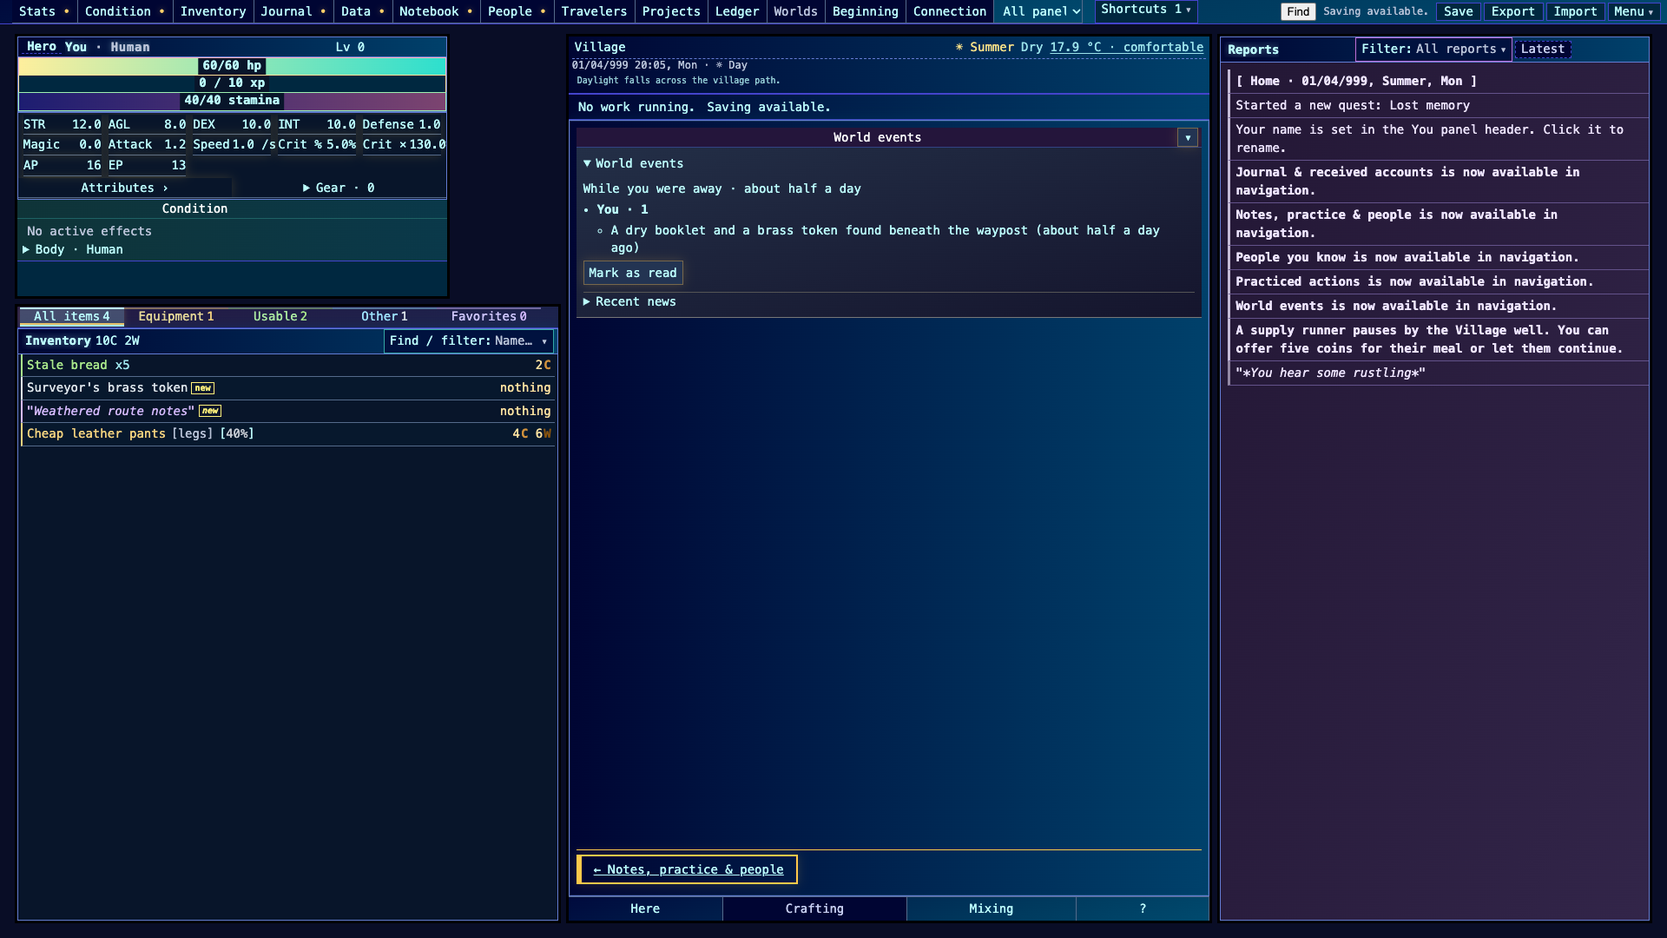
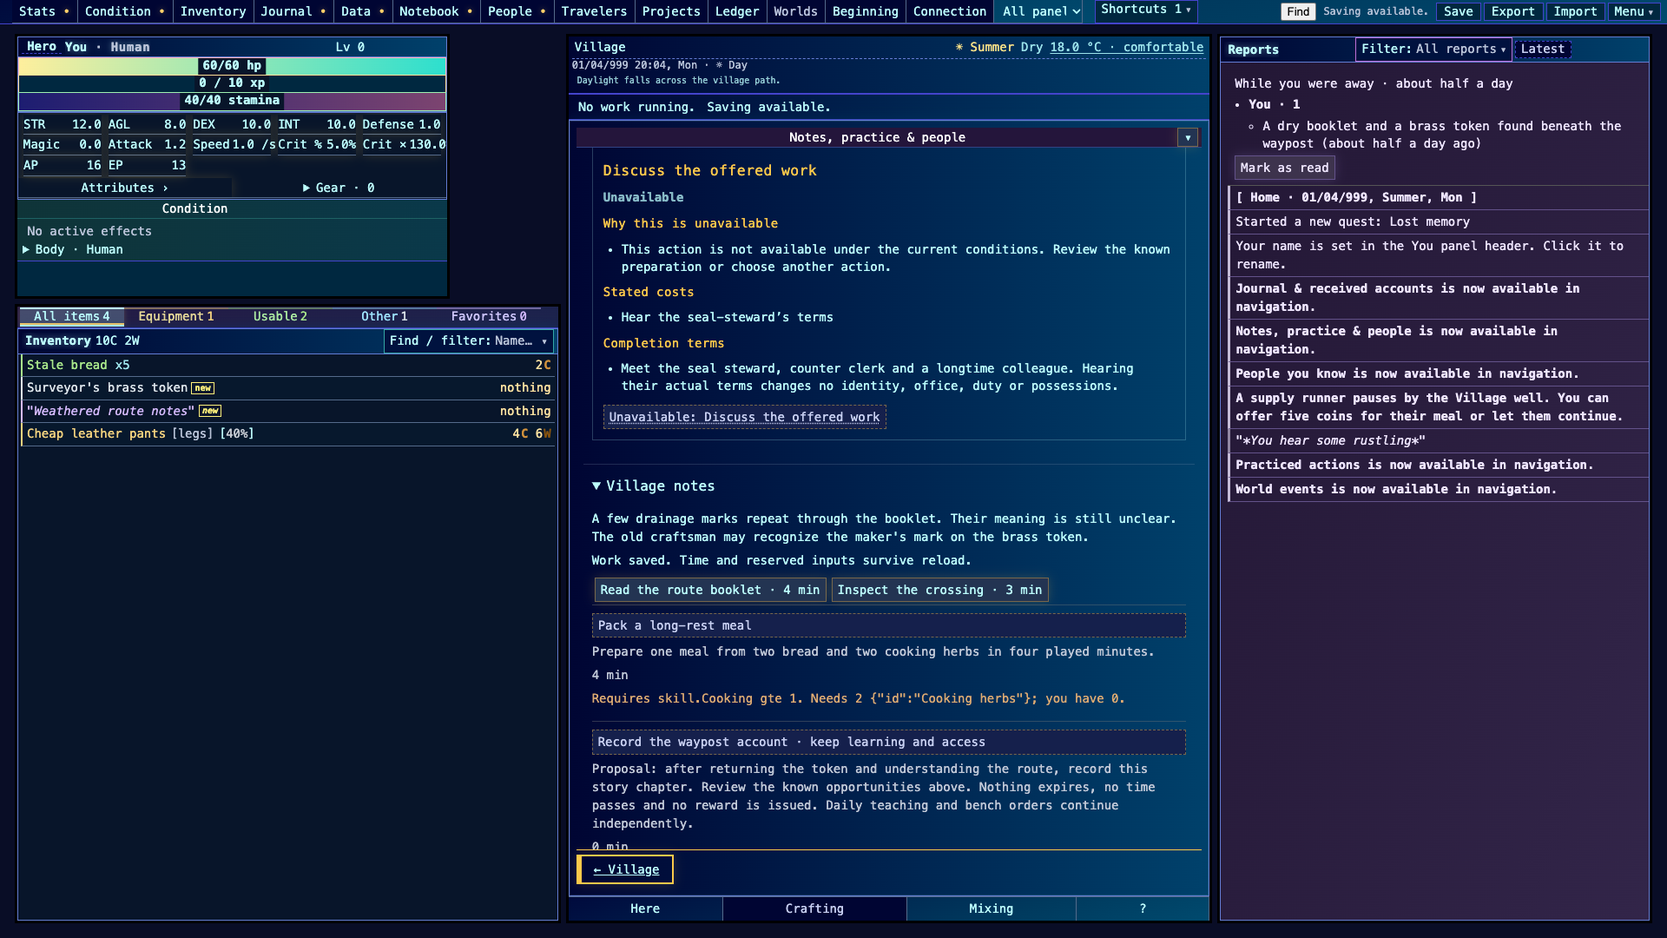
Time and chronicle round 2: digest pinned in Reports, xN folding for every report kind, person links
- TC17: the While you were away row moves from World events (closed by default and on reload)
  to the top of Reports, bounded to 40% of the column; the stream is unchanged.
- TC18: a non-combat line repeating the newest line folds into its xN with occurrence times,
  reusing combat_log's helper and CSS; day headers never fold; the detailed setting turns it off.
- TC20: person rows open People.
- Round 2 section: six reference games, fresh-player test, density, pop-out, cheat view,
  style, unconventional option, gaps, form per part, later volumes, flair, Reports shell proposals.

Checks: 19/19 focused tests; headless 1920x1080 fresh-life route PASS (bundle 2f5dfae1b4f1);
check:arch and check:rules PASS. TC18 and TC20 not yet exercised in the browser.
Agent-verified, not human-reviewed.

(cherry picked from commit cccf83dfedf10521eb94ead09cdb81f35c50f65b)

diff --git a/src/display.js b/src/display.js
@@ -13,6 +13,7 @@ import {GRADED_IDS} from './harvest.js';
 import {deferSimulationRender} from './simulation_render.js';
 import {knownBestiarySources, knownLootValue} from './fork_discovery_views.js';
 import {vendorState, conditionText} from './ui_polish.js';
+import {reportRepeatKey} from './report_repeats.js';
 import {combatLogKey, renderCombatLine, addCombatOccurrence, occurrenceLabel, hostileSlot, hostileSubject} from './combat_log.js';
 import {equipmentDurability} from './absorb_e2/durability.js';
 import {denominationsKnown} from './reveal_chain.js';
@@ -993,6 +994,22 @@ export function setNativeLogBufferReader(reader) {
 
     message_to_add = message_to_add.replaceAll("%HeroName%", character.name).replaceAll("\n","<br>");
     //message_to_add = message_to_add.replaceAll("%HeroName%", character.name).replaceAll("<br>","\n");
+    // Non-combat repeat of the newest visible line folds into its ×N (report_repeats.js).
+    const repeat_key=getDisplaySetting('combatRepeatMode')==='detailed'?null:reportRepeatKey(message_type,message_to_add,details);
+    let last_line=repeat_key&&message_log?.lastElementChild;
+    while(last_line&&!last_line.classList.contains('message_common'))last_line=last_line.previousElementSibling;
+    if(last_line&&last_line.dataset.reportRepeatKey===repeat_key){
+        const batch=deferSimulationRender(finish_batched_message_log,finish_batched_message_log);
+        const following=batch&&batched_log_following!==undefined?batched_log_following:getDisplaySetting("logFollow")==="always"||is_message_log_near_bottom();
+        if(batch)batched_log_following=following;
+        addCombatOccurrence(last_line,combat_occurrence_time());
+        const shown=document.getElementById([...last_line.classList].find(c=>/^message_(?:events|loot|unlocks|background|crafting|combat)$/.test(c))?.replace("_","_show_"));
+        if(shown?.classList.contains('active_selection_button')){
+            if(following){if(batch)batched_log_scroll_requested=true;else message_log.scrollTop=message_log.scrollHeight;}
+            else{message_log_unread_count+=1;show_message_log_unread();}
+        }
+        return;
+    }
 
     let message = document.createElement("div");
     message.classList.add("message_common");
@@ -1191,6 +1208,7 @@ export function setNativeLogBufferReader(reader) {
     insert_HTML(message, "<div class='message_border'> </>");
 
     message_log.appendChild(message);
+    if(repeat_key){message.dataset.reportRepeatKey=repeat_key;addCombatOccurrence(message,combat_occurrence_time());}
 
     const button_id = group_to_add.replace("_","_show_"); //not the best way but likelihood of the ids being changed is quite low
     if(document.getElementById(button_id).classList.contains("active_selection_button")) {

diff --git a/src/event_feed_ui.js b/src/event_feed_ui.js
@@ -4,6 +4,7 @@ import {reportAttention,reportProjection} from "./host.js";
 import {domainRegistry} from "./domain_registry.js";
 import {returnDigest} from "./return_digest.js";
 import {createReturnDigestRow} from "./return_digest_ui.js";
+import {openWorkspaceModule} from "./workspace_layout.js";
 
 const node = (tag, text = "") => {const n = document.createElement(tag); n.textContent = text; return n;};
 export function createEventFeed({registry, read, open}) {
@@ -12,8 +13,11 @@ export function createEventFeed({registry, read, open}) {
     const summary = node("summary", "World events"), leads = node("div"), past = node("details");
     const pastSummary = node("summary", "Recent news"), history = node("ol");
     past.append(pastSummary,history);
-    const digestRow=createReturnDigestRow({markRead:()=>{domainRegistry.command('returnDigest','markRead')();render();}});
-    panel.append(summary,digestRow.node,leads,past);
+    // RPT6 home: the top of Reports, which stays on screen; the stream below keeps the raw lines.
+    const digestRow=createReturnDigestRow({markRead:()=>{domainRegistry.command('returnDigest','markRead')();render();},openPerson:()=>openWorkspaceModule('known-people')});
+    const reports=document.getElementById('message_log_div');
+    if(reports)reports.insertBefore(digestRow.node,document.getElementById('message_box_div'));
+    panel.append(summary,leads,past);
     const lifePanel=node('details'),heardPanel=node('details'),lifeHistory=node('ol'),heardHistory=node('ol');
     lifeHistory.style.maxHeight='16rem';lifeHistory.style.overflowY='auto';
     lifePanel.id='life_event_view'; heardPanel.id='heard_event_view';
@@ -23,7 +27,7 @@ export function createEventFeed({registry, read, open}) {
         const snapshot = read(), {state,context} = snapshot, feed = eventFeed(state,registry,context.facts,snapshot.lifeRecord);
         const marker=domainRegistry.project('returnDigest'),digest=marker?returnDigest(state,registry,{facts:context.facts,lifeRecord:snapshot.lifeRecord,seenAt:marker.seenAt,feed}):null;
         digestRow.update(digest,{writable:marker?.writable!==false});
-        panel.hidden = !feed.leads.length && !feed.news.length && !feed.life.length && !feed.heard.length && !digest?.visible;
+        panel.hidden = !feed.leads.length && !feed.news.length && !feed.life.length && !feed.heard.length;
         const count = feed.leads.filter(e => e.available).length;
         reportAttention(count, feed.leads.find(e => e.available)?.label || "");
         reportProjection("events", () => ({leads: feed.leads.map(e => ({label: e.label, detail: e.detail, available: e.available})), news: feed.news.map(m => m.text), ...(digest?.visible ? {away: digest.text} : {})}));

diff --git a/src/return_digest_ui.js b/src/return_digest_ui.js
@@ -1,8 +1,8 @@
-// "While you were away" row (RPT6, LTU3). Home: the World events panel, above its leads; the raw
-// lines stay in Recent news, Life and Reports. Plain DOM lists, so the row is its own text form.
+// "While you were away" row (RPT6, LTU3). Home: pinned at the top of Reports, above the stream that
+// keeps the raw lines. Plain DOM lists, so the row is its own text form.
 const node = (doc, tag, text = '', cls = '') => {const n = doc.createElement(tag); if (text) n.textContent = text; if (cls) n.className = cls; return n;};
 
-export function createReturnDigestRow({doc = document, markRead}) {
+export function createReturnDigestRow({doc = document, markRead, openPerson = null}) {
     const root = node(doc, 'section', '', 'return-digest');
     root.id = 'return_digest'; root.setAttribute('aria-label', 'While you were away'); root.hidden = true;
     const heading = node(doc, 'strong'), groups = node(doc, 'ul', '', 'return-digest-groups');
@@ -27,7 +27,9 @@ export function createReturnDigestRow({doc = document, markRead}) {
             const item = node(doc, 'li'); item.dataset.digestGroup = g.id;
             const lines = node(doc, 'ul');
             lines.append(...g.lines.map(l => node(doc, 'li', `${l.text} (${l.when})`)));
-            item.append(node(doc, 'span', `${g.label} · ${g.lines.length}`, 'return-digest-who'), lines);
+            const who = node(doc, openPerson && g.kind === 'person' ? 'button' : 'span', `${g.label} · ${g.lines.length}`, 'return-digest-who');
+            if (who.tagName === 'BUTTON') {who.type = 'button'; who.title = `Open People: ${g.label}`; who.addEventListener('click', () => openPerson(g.personId));}
+            item.append(who, lines);
             return item;
         }));
     }};

diff --git a/tests/report_repeats.test.js b/tests/report_repeats.test.js
@@ -1,0 +1,23 @@
+import test from 'node:test';
+import assert from 'node:assert/strict';
+import {reportRepeatKey} from '../src/report_repeats.js';
+
+test('same type and text give the same key; a different type or text differs', () => {
+    const key = reportRepeatKey('message_events', 'You rest.');
+    assert.ok(key);
+    assert.equal(reportRepeatKey('message_events', 'You rest.'), key);
+    assert.notEqual(reportRepeatKey('skill_raised', 'You rest.'), key);
+    assert.notEqual(reportRepeatKey('message_events', 'You rest again.'), key);
+});
+
+test('combat kinds, combat details and calendar lines never fold here', () => {
+    assert.equal(reportRepeatKey('hero_attacked', 'x'), null);
+    assert.equal(reportRepeatKey('enemy_defeated', 'x'), null);
+    assert.equal(reportRepeatKey('other', 'x', {combat: {}}), null);
+    assert.equal(reportRepeatKey('other', 'Day 2', {calendarDate: '2'}), null);
+});
+
+test('empty or missing text has no key', () => {
+    assert.equal(reportRepeatKey('other', ''), null);
+    assert.equal(reportRepeatKey('other', undefined), null);
+});

diff --git a/style.css b/style.css
@@ -2958,6 +2958,9 @@ i {
 	#world_event_feed button:disabled { cursor: default; }
 	#world_event_feed ol { margin: var(--ui-space-3) 0; padding-left: 20px; }
 	#world_event_feed li { margin-bottom: var(--ui-space-3); }
+	#return_digest { flex: none; max-height: 40%; overflow-y: auto; box-sizing: border-box; padding: var(--ui-space-3) var(--ui-space-4); border-bottom: 1px solid var(--ui-swatch-076); }
+	#return_digest[hidden] { display: none; }
+	#return_digest button.return-digest-who { font: inherit; font-weight: bold; padding: 0; background: none; border: 0; color: inherit; text-decoration: underline; cursor: pointer; }
 	#return_digest ul { margin: var(--ui-space-2) 0; padding-left: var(--ui-space-6); }
 	#return_digest li { margin-bottom: var(--ui-space-1); }
 	#return_digest .return-digest-who { font-weight: bold; }

diff --git a/src/report_repeats.js b/src/report_repeats.js
@@ -1,0 +1,8 @@
+// Reports log: a non-combat line that repeats the newest line folds into "×N".
+// Returns a stable key from message type and final text, or null when the line never folds.
+// Combat kinds fold through combat_log.js; calendar day headers always stand alone.
+export function reportRepeatKey(type, text, details = {}) {
+    if (typeof type !== 'string' || typeof text !== 'string' || !text) return null;
+    if (/^(?:hero|enemy)_/.test(type) || details.combat || details.calendarDate) return null;
+    return `${type}\u0000${text}`;
+}

diff --git a/docs/representations/TIME_AND_CHRONICLE.md b/docs/representations/TIME_AND_CHRONICLE.md
@@ -170,9 +170,218 @@ save's own clock; future marker clamps; Export carries it). No engine schema bum
   under TC11, but it means the first digest needs a step like the waypost.
 - `eventFeed` caps Recent news at eight lines, so a very long absence shows the
   newest eight non-person lines; people's memories are not capped.
-- The World events module starts closed and the workspace does not reopen it
-  after reload; the row is still unread and shows when the panel is opened.
-- Person rows do not link to their People entry yet (TC10 asks for it).
+- (Round 2) The digest moved to the top of Reports, so the World events module's
+  closed-by-default state no longer hides it.
+- (Round 2) Person rows now open People (TC20).
 
 **Next slice:** TC12 upcoming strip in the time chip region from `eventFeed`
 leads and the pending job list, then the person-row links.
+
+## Round 2 (2026-10-30): references, fresh eyes, Reports shell
+
+Brief: [round 2](../gm/dispatch/ui-refactor-wave-2026-10-29/ROUND2_BRIEF.md) items
+1-21. This session owns the Reports panel's overall look (item 14). Everything
+here, round 1 included, is a draft and the current best, open to refactor or
+replacement with a reason (AD45). Codes TC17 onward.
+
+### How other games do it (item 1)
+
+Claims are from general knowledge of these games (play and public docs), not a
+fresh study session; "inferred" marks my reading of why it works.
+
+| Game | What the player sees | Makes easy | Costs | Idea taken |
+|---|---|---|---|---|
+| Persona 5 | A day page: date, weather, time slot (after school, evening), the calendar flips on a new day; deadlines as "N days left". | Planning by slot; deadline pressure. | Rigid slots; little room for idle time. | **Time as named slots and countdown phrases**, not clocks (TC9, TC12). |
+| Stardew Valley | Season calendar with birthdays and festivals; the day-end summary lists what you earned. | Recurring dates at a glance; a ritual end-of-day receipt. | The summary is money-only. | **A day-end receipt grouped by kind**, which the digest generalizes to people (TC3). |
+| Majora's Mask | A three-day clock; the Bombers' notebook tracks who is where when and what you learned about them. | Loop worlds: who matters at which hour, and what carries over. | Heavy to author per person. | **Per-person schedule rows that fill as you learn them** (TC5, TC14). |
+| Outer Wilds | A loop with a ship log: rumor mode (links between leads) and map mode; the reset keeps only knowledge. | "What did I learn this loop" without a quest list. | Needs knowledge-only progress. | **The log is knowledge, not tasks**: the digest and loop view show what you now know (TC11, TC14). |
+| Dwarf Fortress legends | Years of events per figure, site and entity, browsable after the fact. | Emergent history readable as a chronicle. | Raw and dense; little narrative shape. | **Every line belongs to a subject**: group by person and place, link to the subject (TC10, TC20). |
+| Idle games (Melvor Idle, Cookie Clicker, Antimatter Dimensions) | An offline-progress popup on return: time away, what you gained, sometimes per skill. | The return moment is satisfying and short. | Usually a modal that blocks; numbers without stories. | **One summary on return, not a modal**, with the time away as a phrase (TC8, TC17). |
+
+Own references first (UR12, UR49): Proto23's message log is the baseline for
+the Reports column (compact subject-first lines, kind tags); YAIR upstream logs
+by kind with filter buttons. Both are kept; nothing here removes a filter.
+
+### Fresh-player test (item 2)
+
+Opening a fresh life, then twelve hours later, as a first-time player:
+
+- Before this round the digest lived in the World events module, which starts
+  closed and closes again on reload. A fresh player would never see it.
+  **Fixed (TC17):** it is pinned at the top of Reports, which is on screen in the
+  default layout.
+- "Mark as read" is clear. "About half a day ago" is clear. "You · 1" is clear
+  once lines show under it.
+- Terms needing knowledge: none new. The person name is a link only when that
+  person is in People (TC20).
+- Numbers without meaning: none; the only number is a count beside a name.
+
+### Space, split and density (item 3)
+
+- **Reports (right column)**: the glance. The digest takes at most 40% of the
+  column and scrolls inside itself, so the stream keeps its room. Density: one
+  heading line, one line per person, the lines indented under them (UR42: looked
+  at on every return).
+- **World events (center)**: leads and recent news stay there. Split rule: the
+  digest answers "what changed while I was gone", World events answers "what can
+  I act on"; one question per view.
+- **Upcoming strip (TC12, next slice)**: one line in the time chip region; the
+  wide week calendar (TC13) only in a center mode or pop-out.
+
+### Bars and small signals (item 4)
+
+The digest needs no bar. The upcoming strip (TC12) will carry a small "time
+left" chip per item in words ("about two hours"), with a thin track only when
+the job has a known total (reuses `meter_bar.js` via `work_status_view.js`).
+
+### Pop-outs and the desktop app (item 5)
+
+- **Calendar pop-out (LATER):** the week calendar (TC13) is the one view in this
+  feature that earns a second screen; it draws into its given node (MDL13) so
+  `desktop/popout_host.cjs` can host it, with the browser fallback in-page.
+- **Notification (ACCOUNT FOR NOW):** when the app regains focus and the digest
+  is visible, the desktop presence can badge the Dock with the line count. No
+  sound; the row itself is the content.
+
+### Cheats and insight views (item 6)
+
+A "while you were away" cheat (an all-seeing servant, a status window's log)
+adds a **Revealed** group under the digest: lines the player did not witness,
+each marked with the cheat's name as source, never mixed into person groups.
+It reads from the cheat's declared source, never from the simulation log, and
+sealed outcomes appear by ID and status only (UR80). The developer inspector
+stays separate.
+
+### Visual style (item 7)
+
+Default: plain indented lists in the theme's body type, which work in Luminous
+and Neutral, at 14 px and 21 px, and with effects off (no effect is used). The
+gallery shows the alternative **radial "who it came from" figure**
+(`time-return-digest`). It reads worse for the digest itself: a list scans
+faster than a star for five or fewer groups, and the figure only earns its room
+for a long absence with many people. Kept as the gallery form and a possible
+"story so far" view (TC4).
+
+### Use what we have (item 8)
+
+`eventFeed` (news, heard, leads), `knownPeopleView` (per-person memories),
+`domain_registry` (save slice), `combat_log.addCombatOccurrence` (×N folding,
+now reused for all kinds), `figure.js` (gallery form), the Reports filters and
+`notice-panel-link`. New code: one adapter, one row, one domain, one key helper.
+
+### Unconventional option (item 9)
+
+**The letter (TC6)**: the digest written as a note from whoever was nearest,
+in the world's voice, with the plain list folded under it. Needs a plausible
+writer per world and the later local-AI drafting pass. Worth a later slice in
+book worlds with servants or roommates; not before prose quality improves.
+
+### Audit gaps (item 10)
+
+- **Lead's run (LTU3):** the digest groups by person, which is LTU3's shape.
+  The LOTM be-seat run needs its cast memories to reach `knownPeopleView`;
+  until then a Tingen return shows You and Around only. ACCOUNT FOR NOW.
+- **Other seats:** the adapter reads only player-knowledge owners; a thin life
+  with few known people gets a short digest, which is correct.
+- **Empty and error:** no row when nothing is new; unwritable save says why.
+- **Performance:** the digest reuses the feed already built per render; it adds
+  one `knownPeopleView` call per World events render. Measure if render cost
+  shows up.
+- **Accessibility:** the row is a labelled section with real buttons; person
+  names are buttons with titles; no motion.
+
+### Prior implementations and abstraction (item 11)
+
+The abstraction underneath is a **note** (coverage plan K2): a dated summary of
+a stretch, grouped by subject, each line pointing back to its source. The
+thematic UI owner's "small contextual bars" section already asks for this kind
+of return summary; the digest is its first note. The next note (a journey's
+arrival summary, a loop reset) reuses `groupDigest` with different sources.
+
+### Flourish (item 13)
+
+LATER: a one-time soft settle when the digest first appears (the existing
+settled-text effect), off under effects off and reduced. No particles: a return
+summary is not an event.
+
+### Reports in this feature and the Reports shell (item 14)
+
+ACT NOW, done in this round:
+
+- **TC17. Digest pinned at the top of Reports** (RPT6). Moved from World events;
+  the stream below is untouched. Log line not needed: the row was never visible
+  to a player in its old home.
+- **TC18. Repeated lines fold into ×N** for every kind, not only combat. A line
+  that repeats the newest visible line (same kind, same text) adds to its ×N
+  with the time of each occurrence; calendar day headers never fold; the
+  existing "detailed" repeat setting turns it off. Reuses the combat helper and
+  its CSS. (`src/report_repeats.js`, three lines' worth of hook in `display.js`.)
+- **TC20. Person rows link to People** (RPT9: the log forgets, the person view
+  remembers).
+
+ACCOUNT FOR NOW (proposals for the shell; other sessions propose their lines):
+
+- **TC19. A glyph before the kind label.** The r3 shell already prints the kind
+  (Event, Discovery, Loot, Crafting, Combat, World) above each line. A small
+  glyph per kind (◆ event, ✦ discovery, ◇ loot, ⚒ crafting, ⚔ combat, ☼ world)
+  beside the word, never instead of it (UR37). Level: CSS only, one rule per
+  kind; done check: both themes at 14 and 21 px. Deferred because the Luminous
+  log rules are dense and another session's freeze fix is in flight nearby.
+- **TC21. Band grouping (RPT5).** Lines from one time band fold under a band
+  header ("Morning") when more than three arrive together. Needs the day-header
+  line to carry the band; level: Sonnet, half a day.
+- **TC22. Subject-first rewrite** of the oldest native lines ("You obtained X"
+  becomes "X · obtained"), only where the line is ours (RPT3). Level: content
+  pass, Sonnet.
+
+### Form per part (item 18)
+
+| Part | Form | Why not the others |
+|---|---|---|
+| Return digest | Grouped list (subject, then lines) | A ring hides order and scans slower; a table wastes width on few columns. |
+| Upcoming strip | One-line chips, soonest first | A calendar is too heavy for three items. |
+| Week calendar | Swimlane grid (days × bands) | Rings suit cycles of one day, not a week. |
+| Loop reset | Ring with slots (the loop is a cycle) | The one place a circle fits the subject. |
+| Life timeline | Horizontal timeline with year ticks | A tree suits lineage, not one life. |
+
+`figure.js` lacks a timeline and swimlane layout; TC4 and TC13 need one. Tell
+the coordinator before adding it, since others may add layouts.
+
+### Levels and depth (item 19)
+
+Time has depth as **precision**: "about half a day" at a glance, the exact clock
+only where the player has a clock (LSD161). The digest's depth is one click: a
+person row opens People with the full memory list.
+
+### Later volumes and worlds (item 17)
+
+Checked against the round-1 sources only: the digest reads owners, not a world,
+so a later volume adds people and news rows, not code. Loop worlds (TC14) and
+school years need the calendar profile to declare a loop length and a term; that
+is a data field on `world_calendar_content.js` profiles. Not checked this round:
+private reading notes for later volumes' time skips (open).
+
+### Flair later (item 20)
+
+Marks are named by role (`person`, `you`, `around`, `missed`). A ship-voyage
+world might draw the digest as a logbook with a tide line between days; a
+school world as a pinned notice board with a note per person. Both restyle the
+same groups.
+
+### Open for improvement (item 12)
+
+Known limits: Recent news caps at eight lines; LOTM cast memories do not reach
+People yet; the World events module still closes on reload (no longer affects
+the digest). Likely next refactor: when a second note exists, move
+`groupDigest` into a shared note primitive.
+
+### Round 2 checks
+
+- `node --test tests/return_digest.test.js tests/report_repeats.test.js tests/combat_log.test.js tests/event_feed.test.js`: 19/19 pass.
+- `node docs/representations/evidence/time/browser.cjs`: PASS on bundle `2f5dfae1b4f15e64`, 1920×1080, fresh origin; the digest now shows at the top of Reports after twelve hours and again after reload with no panel step; Mark as read, Export, Import and a pre-slice save as in round 1. Screenshot `digest-away-1920x1080.png` replaced.
+- TC18 ×N folding: unit-tested (key rules) and built; not yet exercised by a repeated line in the browser (implemented, browser-unexercised).
+- TC20 person links: built; the evidence route has no known person with memories, so the link is not exercised in the browser.
+- `npm run check:arch`: PASS (display.js 6748, under its 6767 baseline). `npm run check:rules`: PASS.
+- Built by: TC18 by a Sonnet subagent (reviewed here); TC17, TC20 and this doc by this session. No other session started.
+
+AD43 floor for round 2: TC17 meets FLR1-FLR6 (agent-verified, not human-reviewed); TC18 and TC20 are implemented, below floor (FLR2 browser route not exercised).
